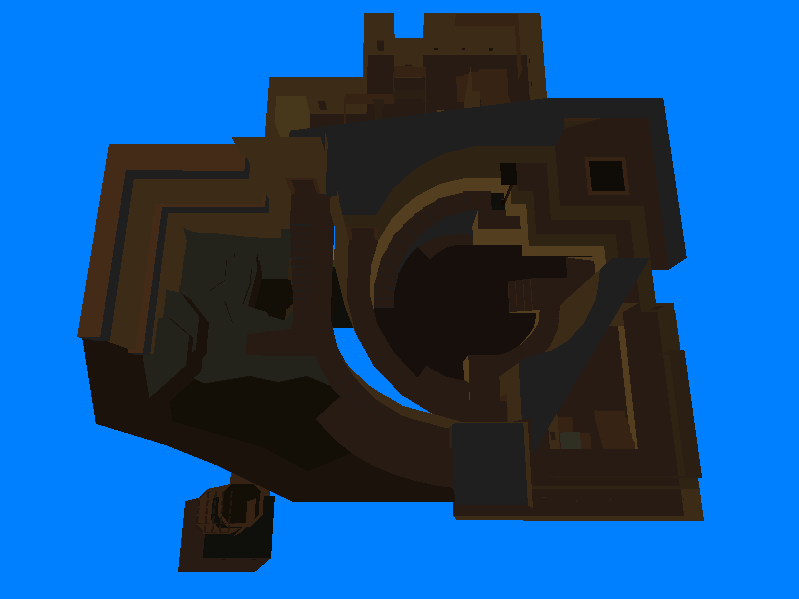
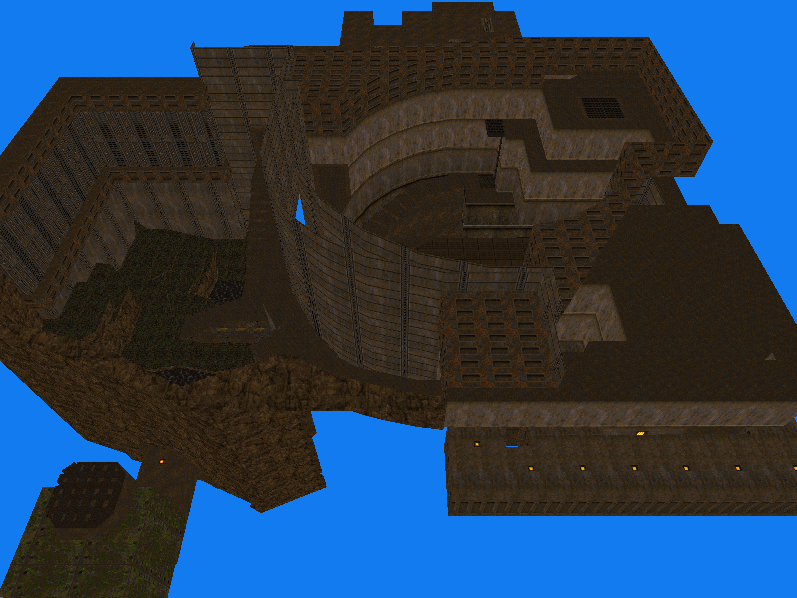
Fixed WAL image loading

diff --git a/src/main.go b/src/main.go
@@ -1,6 +1,7 @@
 package main
 
 import (
+	"./render"
 	"fmt"
 	"github.com/go-gl/gl/v4.1-core/gl"
 	"github.com/go-gl/glfw/v3.2/glfw"
@@ -196,12 +197,12 @@ func initOpenGL() uint32 {
 	version := gl.GoStr(gl.GetString(gl.VERSION))
 	fmt.Println("OpenGL version", version)
 
-	shader := NewShader()
+	shader := render.NewShader()
 	return shader.ProgramShader
 }
 
 // Initialize texture in OpenGL using image data
-func buildTexture(imageData []uint8, walData WalHeader) uint32 {
+func buildTexture(imageData []uint8, walData render.WalHeader) uint32 {
 	var texId uint32
 	gl.GenTextures(1, &texId)
 	gl.BindTexture(gl.TEXTURE_2D, texId)
@@ -264,7 +265,7 @@ func drawMap(vertices []float32, mapTextures []MapTexture, programShader uint32)
 	return
 }
 
-func getVertex(mapData *MapData, faceEdgeIdx int) Vertex {
+func getVertex(mapData *render.MapData, faceEdgeIdx int) render.Vertex {
 	edgeIdx := int(mapData.FaceEdges[faceEdgeIdx].EdgeIndex)
 
 	// Edge index is positive
@@ -278,13 +279,13 @@ func getVertex(mapData *MapData, faceEdgeIdx int) Vertex {
 	return mapData.Vertices[mapData.Edges[-edgeIdx].V2]
 }
 
-func getTextureUV(vtx Vertex, tex TexInfo) [2]float32 {
+func getTextureUV(vtx render.Vertex, tex render.TexInfo) [2]float32 {
 	u := float32(vtx.X*tex.UAxis[0] + vtx.Y*tex.UAxis[1] + vtx.Z*tex.UAxis[2] + tex.UOffset)
 	v := float32(vtx.X*tex.VAxis[0] + vtx.Y*tex.VAxis[1] + vtx.Z*tex.VAxis[2] + tex.VOffset)
 	return [2]float32{u, v}
 }
 
-func getTextureFilename(texInfo TexInfo) string {
+func getTextureFilename(texInfo render.TexInfo) string {
 	// convert filename byte array to string
 	filename := ""
 	for i := 0; i < len(texInfo.TextureName); i++ {
@@ -297,7 +298,7 @@ func getTextureFilename(texInfo TexInfo) string {
 	return filename
 }
 
-func createTriangleData(mapData *MapData, mapTextures []MapTexture) ([]float32, []MapTexture) {
+func createTriangleData(mapData *render.MapData, mapTextures []MapTexture) ([]float32, []MapTexture) {
 	vertsByTexture := make(map[int][]float32)
 
 	var offset uint16
@@ -399,7 +400,7 @@ func main() {
 	// Load files
 	fmt.Println("Starting quake2 bsp loader\n")
 
-	file, _ := os.Open("test.bsp")
+	file, _ := os.Open("./data/test.bsp")
 	defer file.Close()
 
 	if file == nil {
@@ -407,7 +408,7 @@ func main() {
 		return
 	}
 
-	mapData, err := loadQ2BSP(file)
+	mapData, err := render.LoadQ2BSP(file)
 	if err != nil {
 		log.Fatal("Error loading bsp in main:", err)
 		return
@@ -419,7 +420,7 @@ func main() {
 	window := initGLFW()
 	programShader := initOpenGL()
 
-	gl.ClearColor(0, 0.5, 1.0, 1.0)
+	gl.ClearColor(0.0, 0.0, 0.0, 1.0)
 
 	// get sorted strings
 	var fileKeys []string
@@ -433,7 +434,7 @@ func main() {
 	for i := 0; i < len(fileKeys); i++{
 		// stored in different folder
 		// append extension (.wal) as default
-		fullFilename := "textures/" + strings.Trim(fileKeys[i], " ") + ".wal"
+		fullFilename := "./data/textures/" + strings.Trim(fileKeys[i], " ") + ".wal"
 
 		texFile, _ := os.Open(fullFilename)
 		defer texFile.Close()
@@ -443,7 +444,7 @@ func main() {
 			return
 		}
 
-		imageData, walData, err := loadQ2WAL(texFile)
+		imageData, walData, err := render.LoadQ2WAL(texFile)
 		if err != nil {
 			log.Fatal("Error loading texture in main:", err)
 			return

diff --git a/src/test/testWal.go b/src/test/testWal.go
@@ -1,0 +1,61 @@
+package main
+
+import (
+    "../render"
+    "fmt"
+    "image"
+    "image/color"
+    "image/png"
+    "log"
+  	"os"
+)
+
+func main() {
+  // stored in different folder
+  // format: ./testWal inputFilename outputFilename
+  fullFilename := "../data/textures/" + os.Args[1]
+
+  texFile, _ := os.Open(fullFilename)
+  defer texFile.Close()
+
+  if texFile == nil {
+    log.Fatal("Texture file doesn't exist")
+    return
+  }
+
+  imageData, walData, err := render.LoadQ2WAL(texFile)
+  if err != nil {
+    log.Fatal("Error loading texture in main:", err)
+    return
+  }
+
+  fmt.Println("Successfully loaded WAL file at " + fullFilename)
+
+  // Create new image
+  var imgData = image.NewRGBA(image.Rect(0, 0, int(walData.Width), int(walData.Height)))
+
+  // Save each pixel to the image
+  byteCount := walData.Width * walData.Height * 3
+	for i := 0; i < int(byteCount); i += 3 {
+    pixelId := i / 3
+    y := pixelId / int(walData.Width)
+    x := pixelId % int(walData.Width)
+
+		// add new color
+		// each integer represents r, g, b respectively
+		r := imageData[i]
+    g := imageData[i + 1]
+    b := imageData[i + 2]
+    imgData.Set(x, y, color.RGBA{r, g, b, 255})
+  }
+
+  outputFilename := os.Args[2]
+  imageOutputFile, err := os.Create(outputFilename)
+  if err != nil {
+      panic(err)
+  }
+  defer imageOutputFile.Close()
+  png.Encode(imageOutputFile, imgData)
+
+  fmt.Println("Written image data to " + outputFilename)
+}

diff --git a/src/render/q2wal.go b/src/render/q2wal.go
@@ -1,4 +1,4 @@
-package main
+package render
 
 import (
 	"encoding/binary"
@@ -33,7 +33,7 @@ type WalHeader struct {
 }
 
 // Load image file
-func loadQ2WAL(r io.ReaderAt) ([]uint8, WalHeader, error) {
+func LoadQ2WAL(r io.ReaderAt) ([]uint8, WalHeader, error) {
 	// Read the header
 	walData := WalHeader{}
 	reader := io.NewSectionReader(r, int64(0), int64(unsafe.Sizeof(walData)))
@@ -56,9 +56,10 @@ func loadImage(walData WalHeader, r io.ReaderAt) ([]uint8, error) {
 	byteCount := walData.Width * walData.Height * 3
 	newImage := make([]uint8, byteCount)
 
+  reader := io.NewSectionReader(r, int64(unsafe.Sizeof(walData)), int64(byteCount))
 	for i := 0; i < int(byteCount); i += 3 {
 		paletteIndex := uint8(0)
-		reader := io.NewSectionReader(r, int64(unsafe.Sizeof(walData)), int64(unsafe.Sizeof(paletteIndex)))
+
 		if err := binary.Read(reader, binary.LittleEndian, &paletteIndex); err != nil {
 			return nil, err
 		}

diff --git a/src/render/q2bsp.go b/src/render/q2bsp.go
@@ -1,4 +1,4 @@
-package main
+package render
 
 import (
 	"bytes"
@@ -70,7 +70,7 @@ type MapData struct {
 
 // Read header to verify the file is valid
 // Parse the rest of the data and load it into a map
-func loadQ2BSP(r io.ReaderAt) (*MapData, error) {
+func LoadQ2BSP(r io.ReaderAt) (*MapData, error) {
 	header := Header{}
 
 	// Load header
@@ -236,7 +236,7 @@ func loadTexInfos(lump Lump, r io.ReaderAt) ([]TexInfo, error) {
 		if err := binary.Read(reader, binary.LittleEndian, &newItem); err != nil {
 			return nil, err
 		}
-		
+
 		// Add to array
 		data[i] = newItem
 	}

diff --git a/src/render/shader.go b/src/render/shader.go
@@ -1,4 +1,4 @@
-package main
+package render
 
 import (
 	"fmt"
